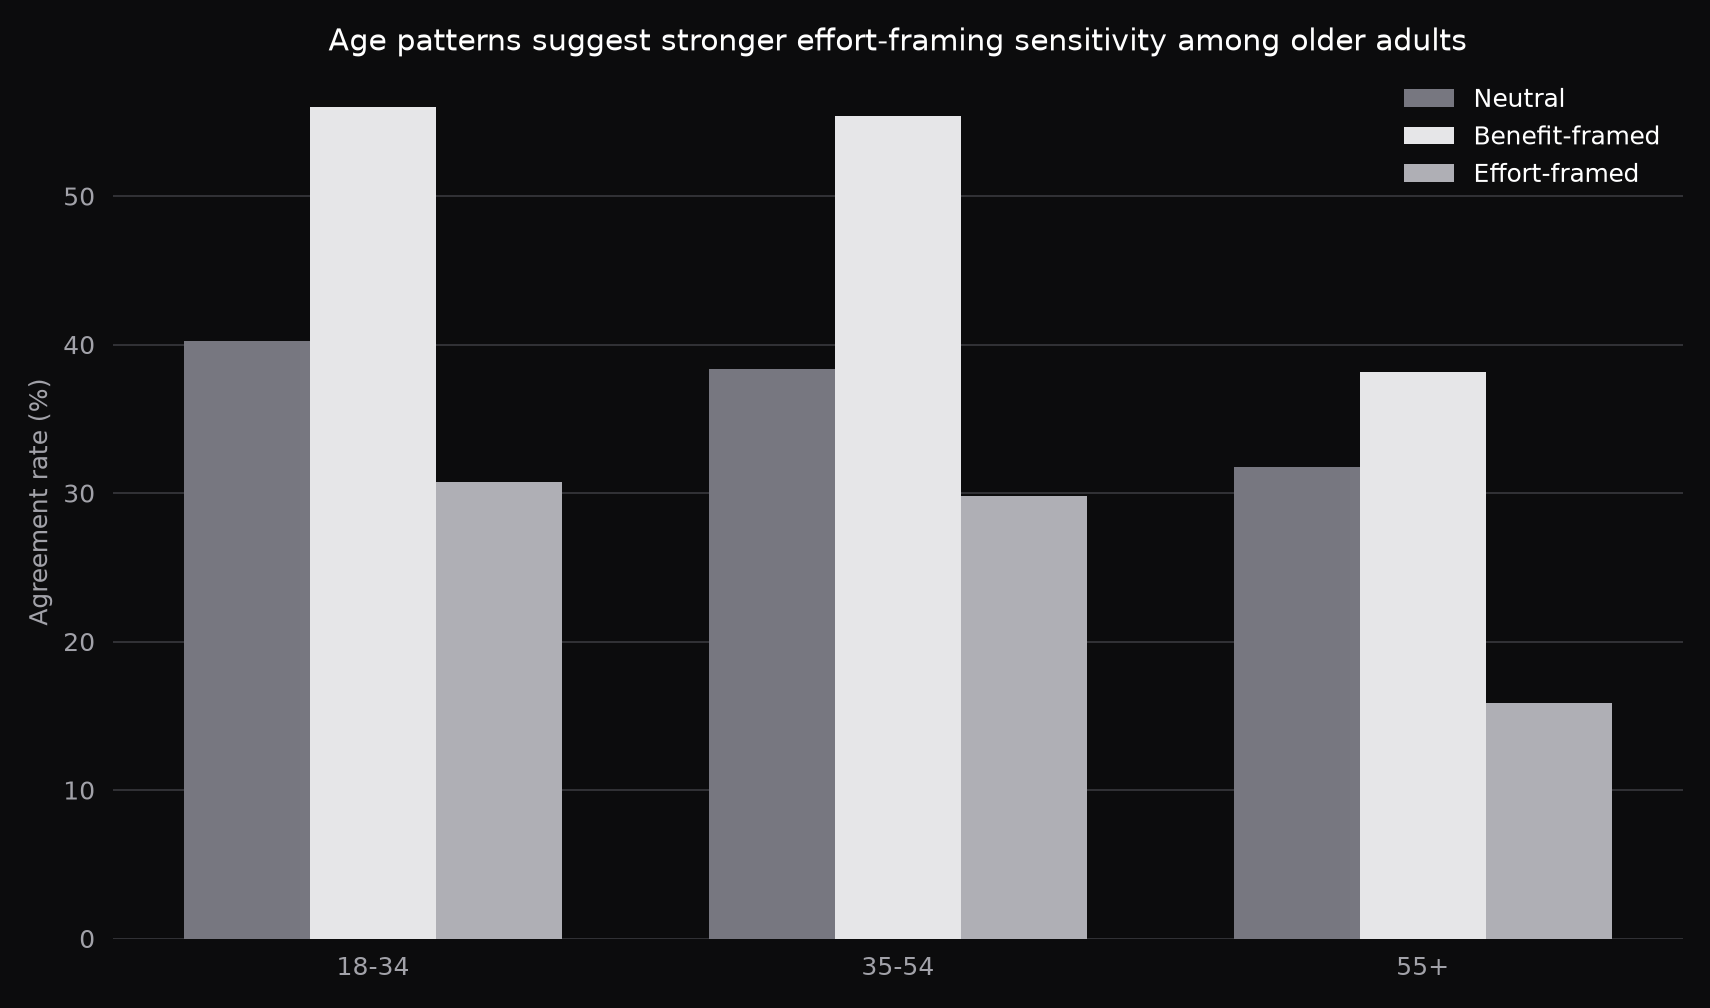
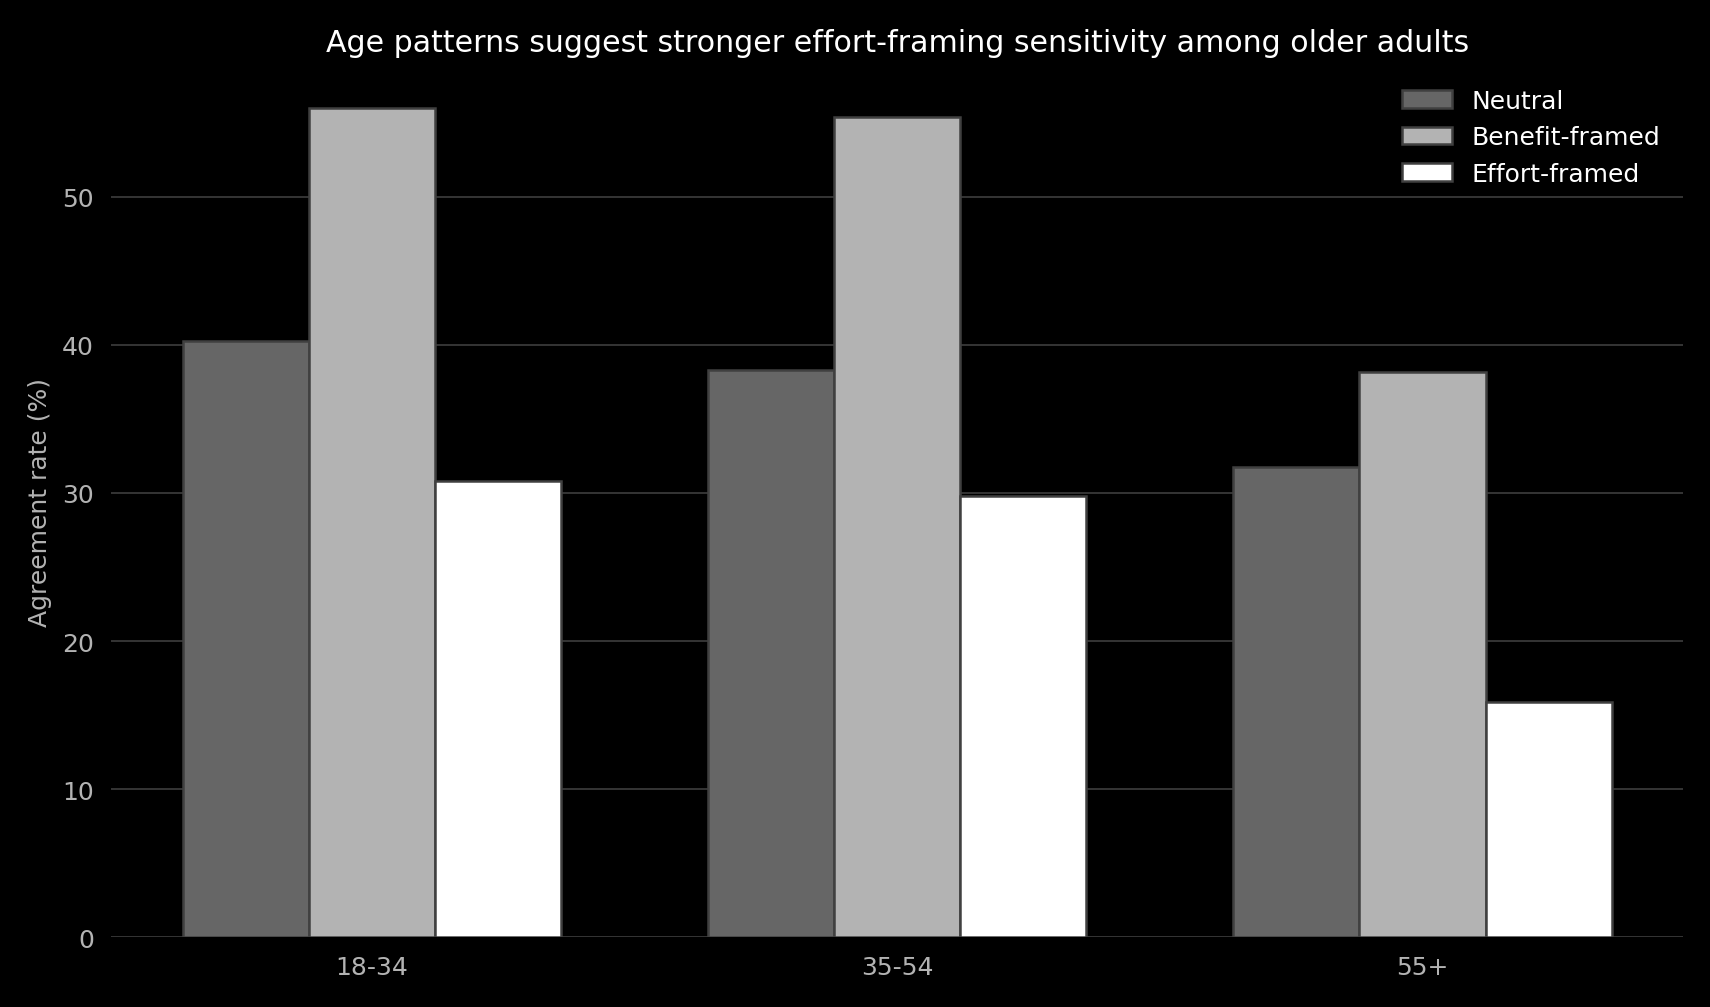
Align chart colors with website palette

diff --git a/analysis_core.py b/analysis_core.py
@@ -18,8 +18,9 @@ QUESTIONS = {
     "Benefit-framed": "How likely are you to use the council's new online services, which can save residents time?",
     "Effort-framed": "How likely are you to use the council's new online services, even if setup takes a few minutes?",
 }
-BG, TEXT, MUTED, GRID = "#0C0C0D", "#FFFFFF", "#A2A2A9", "#313135"
-COLORS = ["#777780", "#E6E6E8", "#AFAFB5"]
+BG, TEXT, MUTED = "#000000", "#FFFFFF", "#B3B3B3"
+LINE, GRID = "#404040", "#333333"
+COLORS = ["#666666", "#B3B3B3", "#FFFFFF"]
 
 
 def git(*args, check=True):
@@ -128,16 +129,16 @@ def create_figures(summary, effects, dist, subgroup):
     fig, ax = plt.subplots(figsize=(10, 5.8)); style(ax); x=np.arange(1,6); w=.24
     for i, arm in enumerate(ARMS):
         vals=dist[dist.wording_arm.eq(arm)].set_index("likelihood_1_5").share.reindex(x, fill_value=0)
-        ax.bar(x+(i-1)*w, vals*100, w, label=arm, color=COLORS[i])
+        ax.bar(x+(i-1)*w, vals*100, w, label=arm, color=COLORS[i], edgecolor=LINE)
     ax.set(title="Response distributions shift with questionnaire wording", xlabel="Likelihood response (1–5)", ylabel="Share of valid responses (%)", xticks=x); ax.legend(frameon=False, labelcolor=TEXT)
     fig.tight_layout(); fig.savefig(FIGURES/"response_distributions.png", dpi=180, facecolor=BG); plt.close(fig)
     plot=effects[effects.outcome.isin(["Agreement rate (pp)", "Item nonresponse (pp)", "Completion rate (pp)"])].copy(); plot["label"]=plot.contrast_vs_neutral+" — "+plot.outcome
     fig, ax=plt.subplots(figsize=(10,6)); style(ax, "x"); y=np.arange(len(plot)); ax.axvline(0,color=TEXT,lw=1)
-    ax.errorbar(plot.effect,y,xerr=[plot.effect-plot.ci_low,plot.ci_high-plot.effect],fmt="o",color=TEXT,ecolor="#888890",capsize=3)
+    ax.errorbar(plot.effect,y,xerr=[plot.effect-plot.ci_low,plot.ci_high-plot.effect],fmt="o",color=TEXT,ecolor=MUTED,capsize=3)
     ax.set(yticks=y,yticklabels=plot.label, xlabel="Difference versus neutral (percentage points)", title="Wording effects with 95% confidence intervals"); fig.tight_layout(); fig.savefig(FIGURES/"effect_sizes_confidence_intervals.png",dpi=180,facecolor=BG); plt.close(fig)
     pivot=subgroup.pivot(index="age_band",columns="wording_arm",values="agreement_rate").reindex(columns=ARMS)*100
     fig,ax=plt.subplots(figsize=(9.5,5.6)); style(ax); x=np.arange(len(pivot)); w=.24
-    for i,arm in enumerate(ARMS): ax.bar(x+(i-1)*w,pivot[arm],w,label=arm,color=COLORS[i])
+    for i,arm in enumerate(ARMS): ax.bar(x+(i-1)*w,pivot[arm],w,label=arm,color=COLORS[i],edgecolor=LINE)
     ax.set(xticks=x,xticklabels=pivot.index,ylabel="Agreement rate (%)",title="Age patterns suggest stronger effort-framing sensitivity among older adults"); ax.legend(frameon=False,labelcolor=TEXT); fig.tight_layout(); fig.savefig(FIGURES/"agreement_by_age.png",dpi=180,facecolor=BG); plt.close(fig)
 
 
